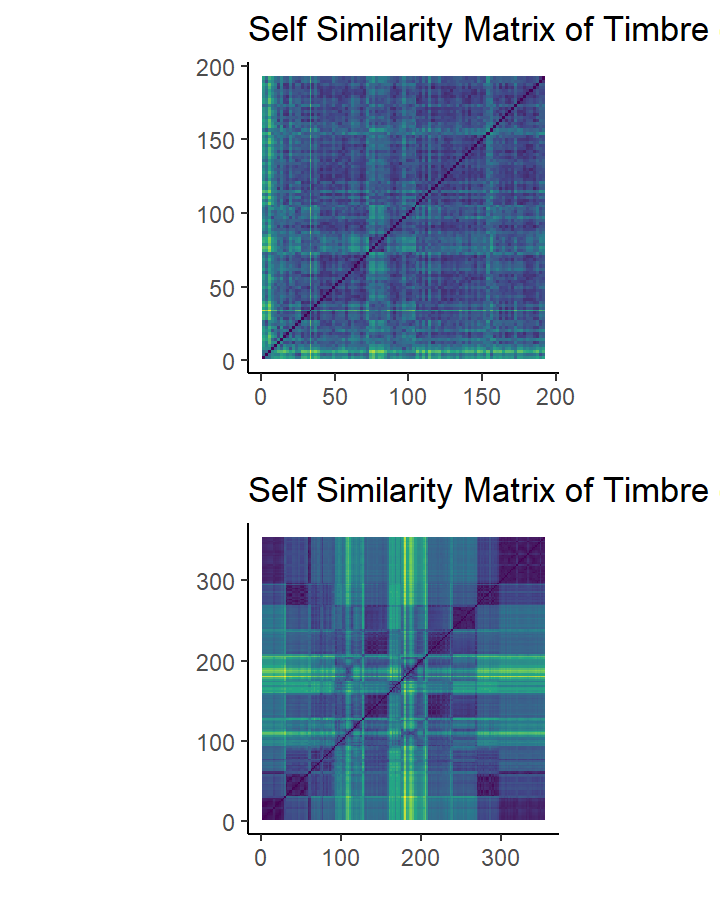
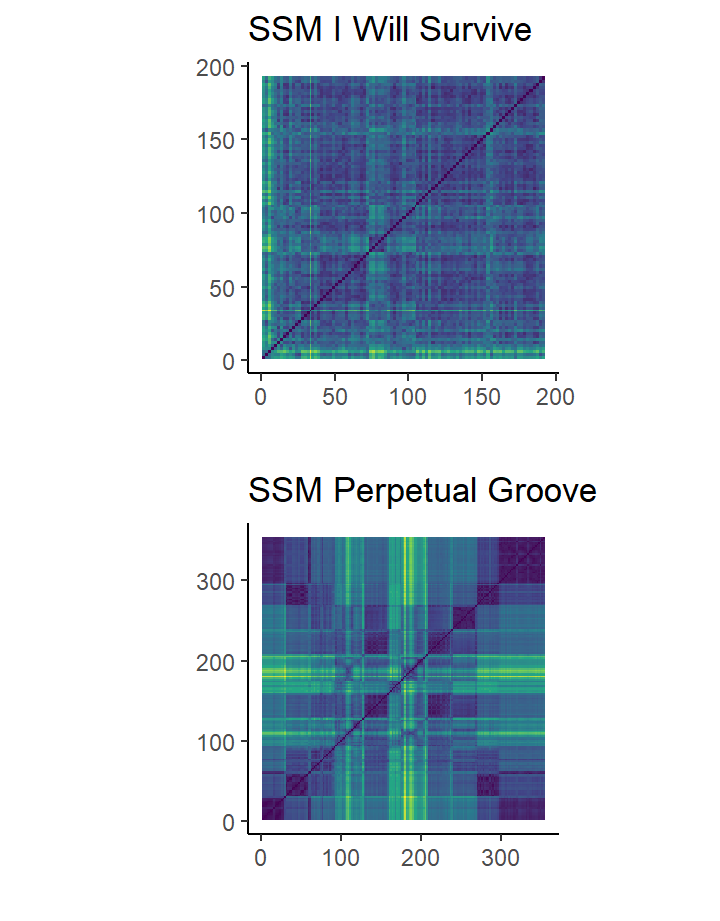
puntjes op de i

Changed region(s): [[0.3667, 0.0, 0.9778, 0.0608], [0.3667, 0.5168, 1.0, 0.5472]]

diff --git a/index.html b/index.html
@@ -2573,8 +2573,8 @@ window.FlexDashboardComponents.push({
 
 <div id="dashboard-container">
 
-<div id="background" class="section level3">
-<h3>Background</h3>
+<div id="introduction-disco-and-techno-music" class="section level3">
+<h3><b>Introduction</b>: Disco and Techno Music</h3>
 <p><b>Corpus</b></p>
 <p>The corpus I chose are two playlists I listen to often when I have a party. The first is a disco playlist and the second is a techno playlist. Even though I really like these two genres, they are very different from one another which makes them interesting to investigate. The disco playlist contains 82 songs and the techno playlist contains 444 songs. Both playlists are owned and created by the same person.</p>
 <p><b>Disco</b></p>
@@ -2586,6 +2586,8 @@ window.FlexDashboardComponents.push({
 <p>This is a typical disco song with a foor-on-the-floor beat.</p>
 <p>A typical song for the techno playlist is: <i>Things we might have said - Reinier Zonneveld</i></p>
 <p>This is a typical techno song with a strong beat and repetitive nature.</p>
+<p><b>Research Question</b></p>
+<p>Can we capture the differences between disco and techno music computationally, and if so, what are those differences?</p>
 <hr />
 <iframe style="border-radius:12px" src="https://open.spotify.com/embed/playlist/1INPlxujcga9tSwvSF6jIw?utm_source=generator" width="100%" height="380" frameBorder="0" allowfullscreen allow="autoplay; clipboard-write; encrypted-media; fullscreen; picture-in-picture">
 </iframe>
@@ -2619,7 +2621,7 @@ window.FlexDashboardComponents.push({
 <iframe style="border-radius:12px" src="https://open.spotify.com/embed/track/55FBE7EvGMTcLoVdqGstSX?utm_source=generator" width="100%" height="80" frameBorder="0" allowfullscreen allow="autoplay; clipboard-write; encrypted-media; fullscreen; picture-in-picture">
 </iframe>
 <p><b>‘Stayin’ Alive’ Tempo Analysis</b></p>
-<p>On the left, the first figure you see is the cyclic tempogram of the song: Stayin’ Alive by the Bee Gees (disco song). I chose this song, because the rythm of this song is the same as the tempo that is used to conduct CPR. Furthermore, Stayin’ alive rests on a ‘four on the floor’ beat, which is a really typical for disco songs (‘Disco’, 2022).</p>
+<p>On the left, the first figure you see is the cyclic tempogram of the song: Stayin’ Alive by the Bee Gees (disco song). I chose this song, because it is famous for it’s rythm. The tempo of this song is the same as the tempo that is used to conduct CPR (ProCPR, 2018). It is often used when training people in CPR to remember the rythm in which they have to perform the chest compressions. Furthermore, Stayin’ alive rests on a ‘four on the floor’ beat, which is a really typical for disco songs (‘Disco’, 2022).</p>
 <p>As you can see by the horizontal line in the tempogram, the rythm of the song is very stable and does not change during the song, which is typical for disco songs (‘Disco’, 2022). The BPM is a little bit over 100. This is in line with the website: ‘Tunebat’, which states that the BPM of Stayin’ alive by the Bee Gees is indeed a 104 BPM.</p>
 <p><b>‘Mistreated’ Tempo Analysis</b></p>
 <p>The second tempogram is the cyclic tempogram of the song ‘Mistreated’ by Scott Diaz, which is a techno song. A typical tempo for techno songs is 120-125 BPM (Kody, 2021). This is in line with what is visible in the tempogram. There is a strong horizontal line around a 120 BMP, which is the beat of this song. This stays throughout the song, but it gets interrupted around 220 seconds. Here, the strong beat of the song stops and there is some singing in the song. That is why the tempogram does not show a clear beat in this area.</p>
@@ -2634,8 +2636,8 @@ window.FlexDashboardComponents.push({
 </div>
 <p><img src="index_files/figure-html/unnamed-chunk-3-1.png" width="576" data-figure-id=fig3 /></p>
 <hr />
-<p>Herer, I plotted two different visualizations of the loudness of the disco and techno genre. The first plot is is histogram. The histogram plots the loudness of all the songs in both cathegories. Loudness is always a negative number, and the more negative it is, the ‘louder’ the song. At first sight, it seems that the techno genre contains much louder songs than the disco genre, because the bars are a lot higher for techno music.</p>
-<p>On average though, and taking into account outliers, the loudness does not differ too much between the two genres. This is visible in the boxplot. The median of the loudness of the techno genre is equal to -8 and the median of disco music lies around -7.5.</p>
+<p>Here, I plotted two different visualizations of the loudness of the disco and techno genre. The first plot is is histogram. The histogram plots the loudness of all the songs in both cathegories. Loudness is always a negative number, and the more negative it is, the ‘louder’ the song. At first sight, it seems that the techno genre contains much louder songs than the disco genre, because the bars are a lot higher for techno music.</p>
+<p>Taking into account outliers though, the loudness does not differ too much between the two genres. This is visible in the boxplot. The median of the loudness of the techno genre is equal to -8 and the median of disco music lies around -7.5.</p>
 <p>The overall difference in loudness between the two genres is not too big, but techno music is a little louder than disco music. Looking at the histogram, we can conclude that even though on average there is not a big difference between the two genres, the loudest songs are all in the techno genre.</p>
 </div>
 <div id="chordogram-of-disco-and-techno-song" class="section level3">
@@ -2651,7 +2653,7 @@ window.FlexDashboardComponents.push({
 </iframe>
 <p>On the left, you can see the chordograms of the disco song: ‘Daddy Cool’ and the techno song: ‘the Aftermath’.</p>
 <p><b>Daddy Cool</b></p>
-<p>The chordogram for the song ‘Daddy Cool’ shows clear activity in Cmin, Fmin, Cmaj and Fmaj rows. From 150 seconds till around 170 seconds, there is a vertical yellow band, which implicates little to no activity in all rows. This is explained by the fact that there is some ‘halt’ in the song, where you hear some background music and you can hear a man talking. That is why the chordogram does not show activity for some particular chords in this part.</p>
+<p>The chordogram for the song ‘Daddy Cool’ shows clear activity in Cmin, Fmin, Cmaj and Fmaj rows. From 150 seconds till around 170 seconds, there is a vertical yellow band, which implicates little to no activity in all rows. This is explained by the fact that there is some ‘halt’ in the song, where you hear some background music and you can hear a man talking, the bridge of the song. There isn’t very clear music in this part, which is why the chordogram does not show activity for some particular chords in this part.</p>
 <p><b>The Aftermath</b></p>
 <p>The chordogram of this techno song looks quite strange. It does not show activity in particular rows, like with the disco chordogram. All the rows show strong activity, except for a few parts of the song. From around 110 seconds until 160 seconds and from 260 till 300 seconds, there is little to no activity in all rows. This is explained by a strong drilling sound that covers most of the sound in those parts of the song. The rest of the song is almost nothing else apart from a strong beat, which explains the strong activity in all the rows of the chordogram. I think the software for creating a chordogram does not handle these type of songs that well, because there are no clear chords in these typical techno songs.</p>
 <iframe style="border-radius:12px" src="https://open.spotify.com/embed/track/3WMbD1OyfKuwWDWMNbPQ4g?utm_source=generator&amp;theme=0" width="100%" height="380" frameBorder="0" allowfullscreen allow="autoplay; clipboard-write; encrypted-media; fullscreen; picture-in-picture">
@@ -2674,12 +2676,12 @@ window.FlexDashboardComponents.push({
 <iframe style="border-radius:12px" src="https://open.spotify.com/embed/track/1KLMFEi6H0DMVzIz4CYc4Z?utm_source=generator" width="100%" height="80" frameBorder="0" allowfullscreen allow="autoplay; clipboard-write; encrypted-media; fullscreen; picture-in-picture">
 </iframe>
 <p><b>Self Similarity Matrix of ‘I Will Survive’</b></p>
-<p>On left you can see the self similarity matrix of the song ‘I Will Survive’ by Gloria Gaynor. This is a very famous disco song. The dark blue parts of the plot represent similar parts in the song. The diagonal of the self similarity is very dark blue, which makes sense because this is where the self similarity matrix compares the same parts of the song, which of course are very similar.</p>
+<p>On left you can see the self similarity matrix of the timbre of the song ‘I Will Survive’ by Gloria Gaynor. This is a very famous disco song. The dark blue parts of the plot represent similar parts in the song. The diagonal of the self similarity is very dark blue, which makes sense because this is where the self similarity matrix compares the same parts of the song, which of course are very similar.</p>
 <p>In the plot, there are some similar, darker chunks. From 40-70 seconds, 120-150 seconds and one from 170 seconds untill the end. These chunks represent the chorus of the song. Since the chorus is always the same, it is expected that these would show up on the self similarity matrix.</p>
 <p>In between these dark chunks, there are some lighter parts as well. For example, around 75 seconds there is a small yellow chunk. In this part of the song there is just some instrumental music playing, which is not very similar to the rest of the song, which is why it is lit up on the plot. Another example is around 110 seconds. This is a verse in the song. Verses are also always a little different from one another, which explains why it is lighter in the self similarity matrix.</p>
 <p>In short, the self similarity matrix clearly shows the verse-chorus structure of this song, which is a typical structure for the disco genre.</p>
 <p><b>Self Similarity Matrix of ‘Perpetual Groove’</b></p>
-<p>The second self similarity matrix is the one of ‘Perpetual Groove’ by Roog and Leon Benesty. This is a techno song. There is very high similarity at the beginning of the song and at the end. This is because at the beginning and at the end of the song, there is just a very strong, repetitive beat without anything else.</p>
+<p>The second self similarity matrix is the one of the timbre of the song ‘Perpetual Groove’ by Roog and Leon Benesty. This is a techno song. There is very high similarity at the beginning of the song and at the end. This is because at the beginning and at the end of the song, there is just a very strong, repetitive beat without anything else.</p>
 <p>There is very low similarity from around 170 till 205 seconds. Here you hear some trumpet-like sounds and a man voice how repeatedly says: ‘Don’t stop’. This is a buildup to a drop and not very similar to other parts in the song. Then the drop hits around 205 seconds, and the music becomes more similar. After the drop the trumpet sounds stay, but the repetative beat as in the beginning is back. That is why it is pretty similar but not as similar as the beginning and end of the song. This pattern is also visible from around 90 till 120 seconds.</p>
 <p>the self similarity matrix shows a strong ABAB structure. The A parts are the intro (which is very similar), and the buildups (which have very low similarity). The B parts are the drops, which follow the buildup pieces from 90-120 seconds and 170-205 seconds. This is a very typical structure for techno music.</p>
 </div>
@@ -2690,9 +2692,9 @@ window.FlexDashboardComponents.push({
 </div>
 <p><img src="Screenshot%20(3).png" width="33%" data-figure-id=fig6 /><img src="Screenshot%20(2).png" width="33%" data-figure-id=fig6 /><img src="Screenshot%20(49).png" width="33%" data-figure-id=fig6 /></p>
 <hr />
-<p>I used K-nearest neighbour classification to classify whether a song belonged to the disco genre or the techno genre. My model has a precicion of 0.905 for the disco genre, and 0.947 for the techno genre, which is pretty high. This means that most songs that belong to the disco genre were classified as disco and most techno songs were classified as techno.</p>
-<p>I also used decision trees as a classification algorithm. The advantage of decision trees is that it tells you what features played a big part in the classification decision. On the left I have plotted which features were important for classifying a song as either disco or techno. As you can see, the most important feature was ‘acousticness’. This makes a lot of sense, because techno music is produces by mostly electronic instruments, and is probably the least acoustic musical genre there is. So when a song has high acousticness, the chance is quite high that it is a disco song.</p>
-<p>Valence was also an important feature for decision making. Valence represents the musical positiveness conveyed. This also does not come as a surprise to me, because disco music mostly is very positive and happy music, whereas techno can sometimes be quite ‘dark’. Instrumentalness was also an important feature. This makes sense for the same reason as the reason why acousticness was an important feature. The fact that duration was also an important feature can be explained by the fact that techno songs are often very long. This is also visible in the boxplot, which shows that techno music has a longer duration than disco music.</p>
+<p>I used K-nearest neighbour classification to classify whether a song belonged to the disco genre or the techno genre. The model has a precicion of 0.905 for the disco genre, and 0.947 for the techno genre, which is pretty high. This means that most songs that belong to the disco genre were classified as disco and most techno songs were classified as techno. The first plot shows the output of the K-nearest neighbour model.</p>
+<p>I also used decision trees as a classification algorithm. The advantage of decision trees is that it tells you what features played a big part in the classification decision. In the middle I have plotted which features were important for classifying a song as either disco or techno. As you can see, the most important feature was ‘acousticness’. This makes a lot of sense, because techno music is produces by mostly electronic instruments, and is probably the least acoustic musical genre there is. So when a song has high acousticness, the chance is quite high that it is a disco song.</p>
+<p>Valence was also an important feature for decision making. Valence represents the musical positiveness conveyed. This also does not come as a surprise to me, because disco music mostly is very positive and happy music, whereas techno can sometimes be quite ‘dark’. Instrumentalness was also an important feature. This makes sense for the same reason as the reason why acousticness was an important feature. The fact that duration was also an important feature can be explained by the fact that techno songs are often very long. This is also visible in the boxplot on the right, which shows that techno music has a longer duration than disco music.</p>
 </div>
 <div id="chroma-features-of-a-disco-and-techno-song" class="section level3">
 <h3><b>Chroma Features</b> of a disco and techno song</h3>
@@ -2712,15 +2714,17 @@ window.FlexDashboardComponents.push({
 <iframe style="border-radius:12px" src="https://open.spotify.com/embed/track/3P87vLHg7L6xGrnxQ5qpGL?utm_source=generator" width="100%" height="80" frameBorder="0" allowfullscreen allow="autoplay; clipboard-write; encrypted-media; fullscreen; picture-in-picture">
 </iframe>
 <p><b>Chroma Analysis of ‘Voulez-Vous’</b></p>
-<p>The second chromagram you see is the chromagram of the song: ‘Voulez-Vous’ by ABBA. As you can see, throughout the whole song there is a lot of activity in the B- and E-rows. However, there are some interruptions of this activity, during which the activity in other rows picks up. For example, around 50 seconds, there is less activity in the B-row, and the A- and G- rows light up. This is no coincidence, because this is where the chorus of the song is. This pattern repeats itself (e.g. around 150 seconds), which makes sense, since the chorus also repeats itself.</p>
+<p>On the left, you can see the chromagram of the song: ‘Voulez-Vous’ by ABBA. As you can see, throughout the whole song there is a lot of activity in the B- and E-rows. However, there are some interruptions of this activity, during which the activity in other rows picks up. For example, around 50 seconds, there is less activity in the B-row, and the A- and G- rows light up. This is no coincidence, because this is where the chorus of the song is. This pattern repeats itself (e.g. around 150 seconds), which makes sense, since the chorus also repeats itself.</p>
 <p>Another interesting thing to notice in the chromagram are the small bars in the B- and A- row that alternate in activity from around 210 seconds up until the end. This is because from that moment until the end of the song, all you hear is the instrumental music, alternated by a ‘Aha’ of the singers. The ‘Aha’ is what explains the activity in the A-row and the instrumental music is denoted by the activity in the B-row. In the end there is also one more chorus, which you can see by the activity in the A- and G-rows.</p>
 <p><b>Chroma Analysis of ‘Things we might have said’</b></p>
-<p>On the left, you can see the chromagram of the song: Things we might have said by Reinier Zonneveld. The most part of the song is a repetative beat, which is represented by the many lines in the D, C# and C column. However, this repetition is interrupted two times (200 seconds and 350 seconds). You can see this in the D and C# column. The repetative beat is interrupted and there is a short buildup to a so called: ‘drop’. This is a point in a music track where a sudden change of rhythm or bass line occurs, which is preceded by a build-up section and break (‘Drop (music)’, 2022). After this interruption, the beat picks up again as you can see by the lines in the chromagram.</p>
+<p>The second chromagram is of the song: ‘Things we might have said’ by Reinier Zonneveld. The most part of the song is a repetative beat, which is represented by the many lines in the D, C# and C column. However, this repetition is interrupted two times (200 seconds and 350 seconds). You can see this in the D and C# column. The repetative beat is interrupted and there is a short buildup to a so called: ‘drop’. This is a point in a music track where a sudden change of rhythm or bass line occurs, which is preceded by a build-up section and break (‘Drop (music)’, 2022). After this interruption, the beat picks up again as you can see by the lines in the chromagram.</p>
 <p>When the D and C# column show litte to no activity, the G# and D# columns lights up. This is because in those interruptions there is a woman singing. This is represented in the G# and D# columns of the chromagram.</p>
 </div>
-<div id="conclusion" class="section level3">
-<h3>Conclusion</h3>
+<div id="conclusion-the-differences-between-disco-and-techno" class="section level3">
+<h3><b>Conclusion</b>: the Differences between Disco and Techno</h3>
 <p>In this portfolio I examined various different features of the spotify API to look into the differences between disco and techno music. Here I will discuss these features and conclude what the differences are between the two genres.</p>
+<p>The research question of this portfolio was: Can we capture the differences between disco and techno music computationally, and if so, what are those differences?</p>
+<p>The answer to that question is: Yes, we can capture the differences between disco and techno music computationally. The differences that I found between the two genres are:</p>
 <p><b>Speechiness and Danceability</b> The danceability of the disco genre was a little bit higher than the danceability of the techno genre. However, the speechiness of the techno genre was higher than the one of the disco genre. This was surprising, because usually techno does not contain a lot of vocals.</p>
 <p><b>Tempo</b> One of the features I looked into is tempo. My results showed that the techno genre had a higher tempo than the disco genre. The techno genre had a tempo of around 128 BPM and disco around 120BPM.</p>
 <p><b>Loudness</b> The loudness of the two genres did not differ much. The median of the techno genre was -8 and the disco median was -7.5. However, the songs with the highest loudness were all belonged to the techno genre.</p>
@@ -2728,14 +2732,15 @@ window.FlexDashboardComponents.push({
 <p><b>Other charecteristics</b> After performing classification algorithms, I found some important features that are characteristics for each genre. Acousticness, valence, and instrumentalness is a lot higher in disco music than in techno music. Duration is higher in techno music.</p>
 </div>
 <div id="references" class="section level3">
-<h3>References</h3>
-<p>A Diverity of Sounds in Disco Music.(2004). Retrieved March 30, from <a href="http://www.discosavvy.com/diversesounds.html#" class="uri">http://www.discosavvy.com/diversesounds.html#</a>:~:text=The%20basic%20tempo%20of%20disco,the%20gaps%20between%20the%20beats.</p>
+<h3><b>References</b></h3>
+<p>A Diverity of Sounds in Disco Music.(2004). Retrieved March 30 2022, from <a href="http://www.discosavvy.com/diversesounds.html#" class="uri">http://www.discosavvy.com/diversesounds.html#</a>:~:text=The%20basic%20tempo%20of%20disco,the%20gaps%20between%20the%20beats.</p>
 <p>Disco. (2022). Retrieved March 23, 2022 from <a href="https://en.wikipedia.org/wiki/Disco#" class="uri">https://en.wikipedia.org/wiki/Disco#</a>:~:text=Disco%20is%20a%20genre%20of,synthesizers%2C%20and%20electric%20rhythm%20guitars.</p>
 <p>Drop (music). (2022). Retrieved March 18, 2022 from <a href="https://en.wikipedia.org/wiki/Drop_(music)" class="uri">https://en.wikipedia.org/wiki/Drop_(music)</a></p>
-<p>EDM Song Structure: Turn Your Loop Into A Song! Retrieved March 30, from <a href="https://cymatics.fm/blogs/production/edm-song-structure#" class="uri">https://cymatics.fm/blogs/production/edm-song-structure#</a>:~:text=One%20of%20the%20most%20common,B%20would%20be%20the%20drop.</p>
-<p>Elena’s Music Genres in Context. Retrieved March 30, from <a href="https://sites.google.com/site/elenasgenres/home/disco-extracts/disci-influences/disco-practitioners/disco-characteristics" class="uri">https://sites.google.com/site/elenasgenres/home/disco-extracts/disci-influences/disco-practitioners/disco-characteristics</a></p>
-<p>Kody, A. (2021, 27 oktober). Using Different Tempos to Make Beats for Different Genres. Izotope. Geraadpleegd op 23 maart 2022, van <a href="https://www.izotope.com/en/learn/using-different-tempos-to-make-beats-for-different-genres.html" class="uri">https://www.izotope.com/en/learn/using-different-tempos-to-make-beats-for-different-genres.html</a></p>
-<p>Techno. (2022). Retrieved March 23, from <a href="https://en.wikipedia.org/wiki/Techno" class="uri">https://en.wikipedia.org/wiki/Techno</a></p>
+<p>EDM Song Structure: Turn Your Loop Into A Song! Retrieved March 30 2022, from <a href="https://cymatics.fm/blogs/production/edm-song-structure#" class="uri">https://cymatics.fm/blogs/production/edm-song-structure#</a>:~:text=One%20of%20the%20most%20common,B%20would%20be%20the%20drop.</p>
+<p>Elena’s Music Genres in Context. Retrieved March 30 2022, from <a href="https://sites.google.com/site/elenasgenres/home/disco-extracts/disci-influences/disco-practitioners/disco-characteristics" class="uri">https://sites.google.com/site/elenasgenres/home/disco-extracts/disci-influences/disco-practitioners/disco-characteristics</a></p>
+<p>Kody, A. (2021, 27 oktober). Using Different Tempos to Make Beats for Different Genres. Izotope. Retrieved March 23 2022, van <a href="https://www.izotope.com/en/learn/using-different-tempos-to-make-beats-for-different-genres.html" class="uri">https://www.izotope.com/en/learn/using-different-tempos-to-make-beats-for-different-genres.html</a></p>
+<p>CPR to Stayin’ Alive beat helps keep proper rate. (2018). Retrieved March 31 2022, from <a href="https://www.procpr.org/blog/training/cpr-stayin-alive-song" class="uri">https://www.procpr.org/blog/training/cpr-stayin-alive-song</a></p>
+<p>Techno. (2022). Retrieved March 23 2022, from <a href="https://en.wikipedia.org/wiki/Techno" class="uri">https://en.wikipedia.org/wiki/Techno</a></p>
 </div>
 
 </div>
